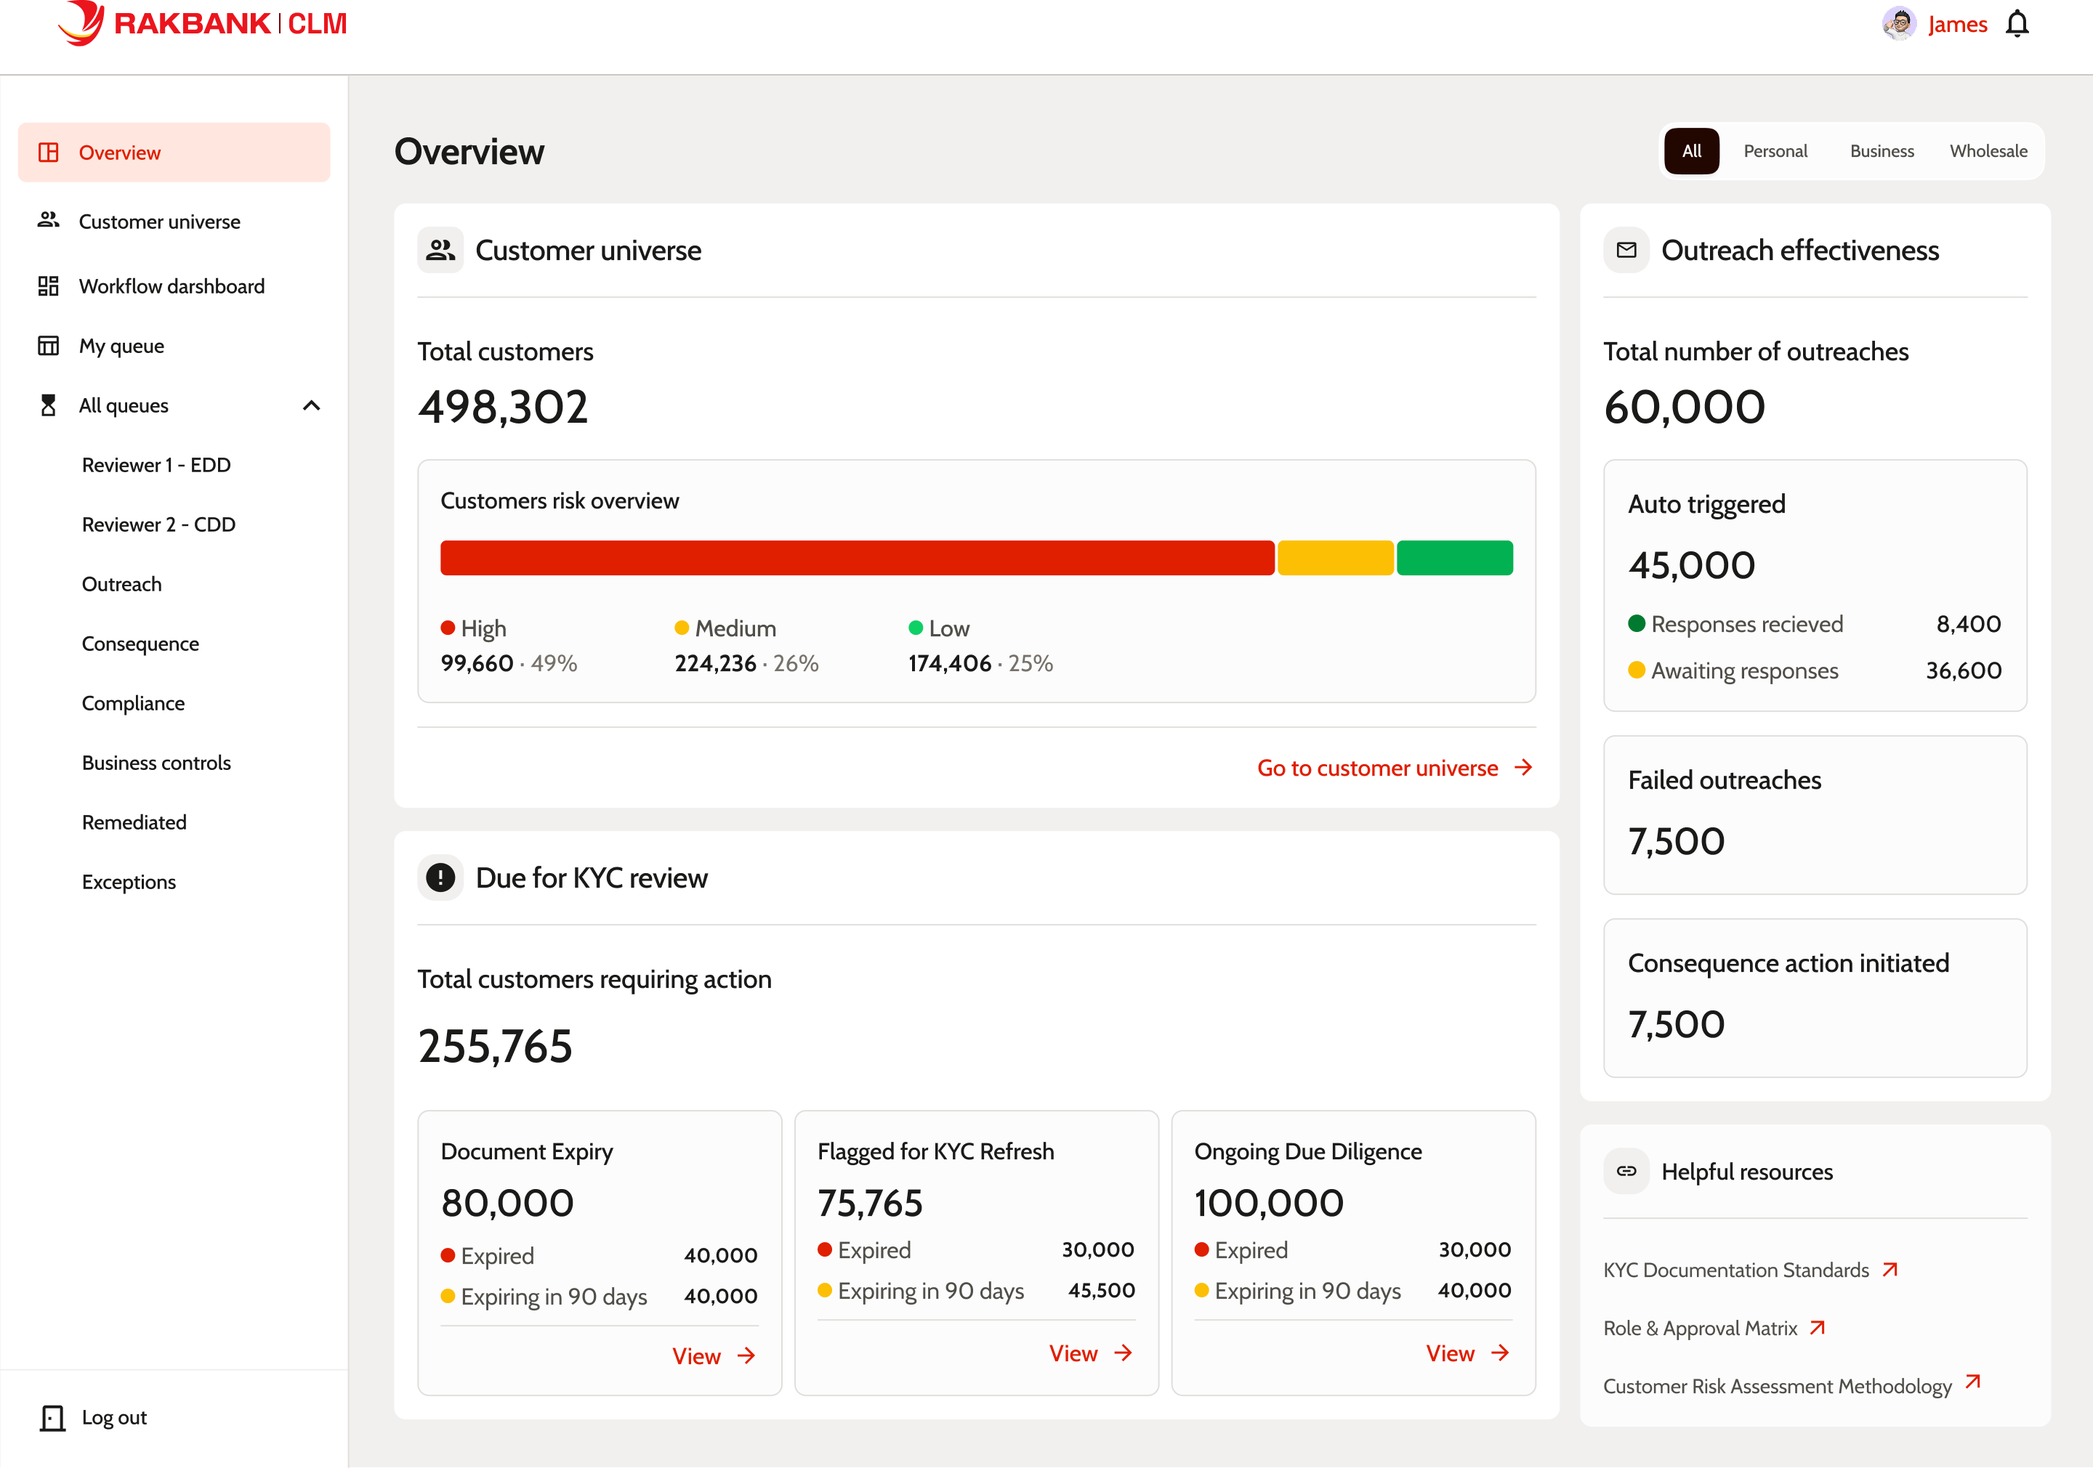
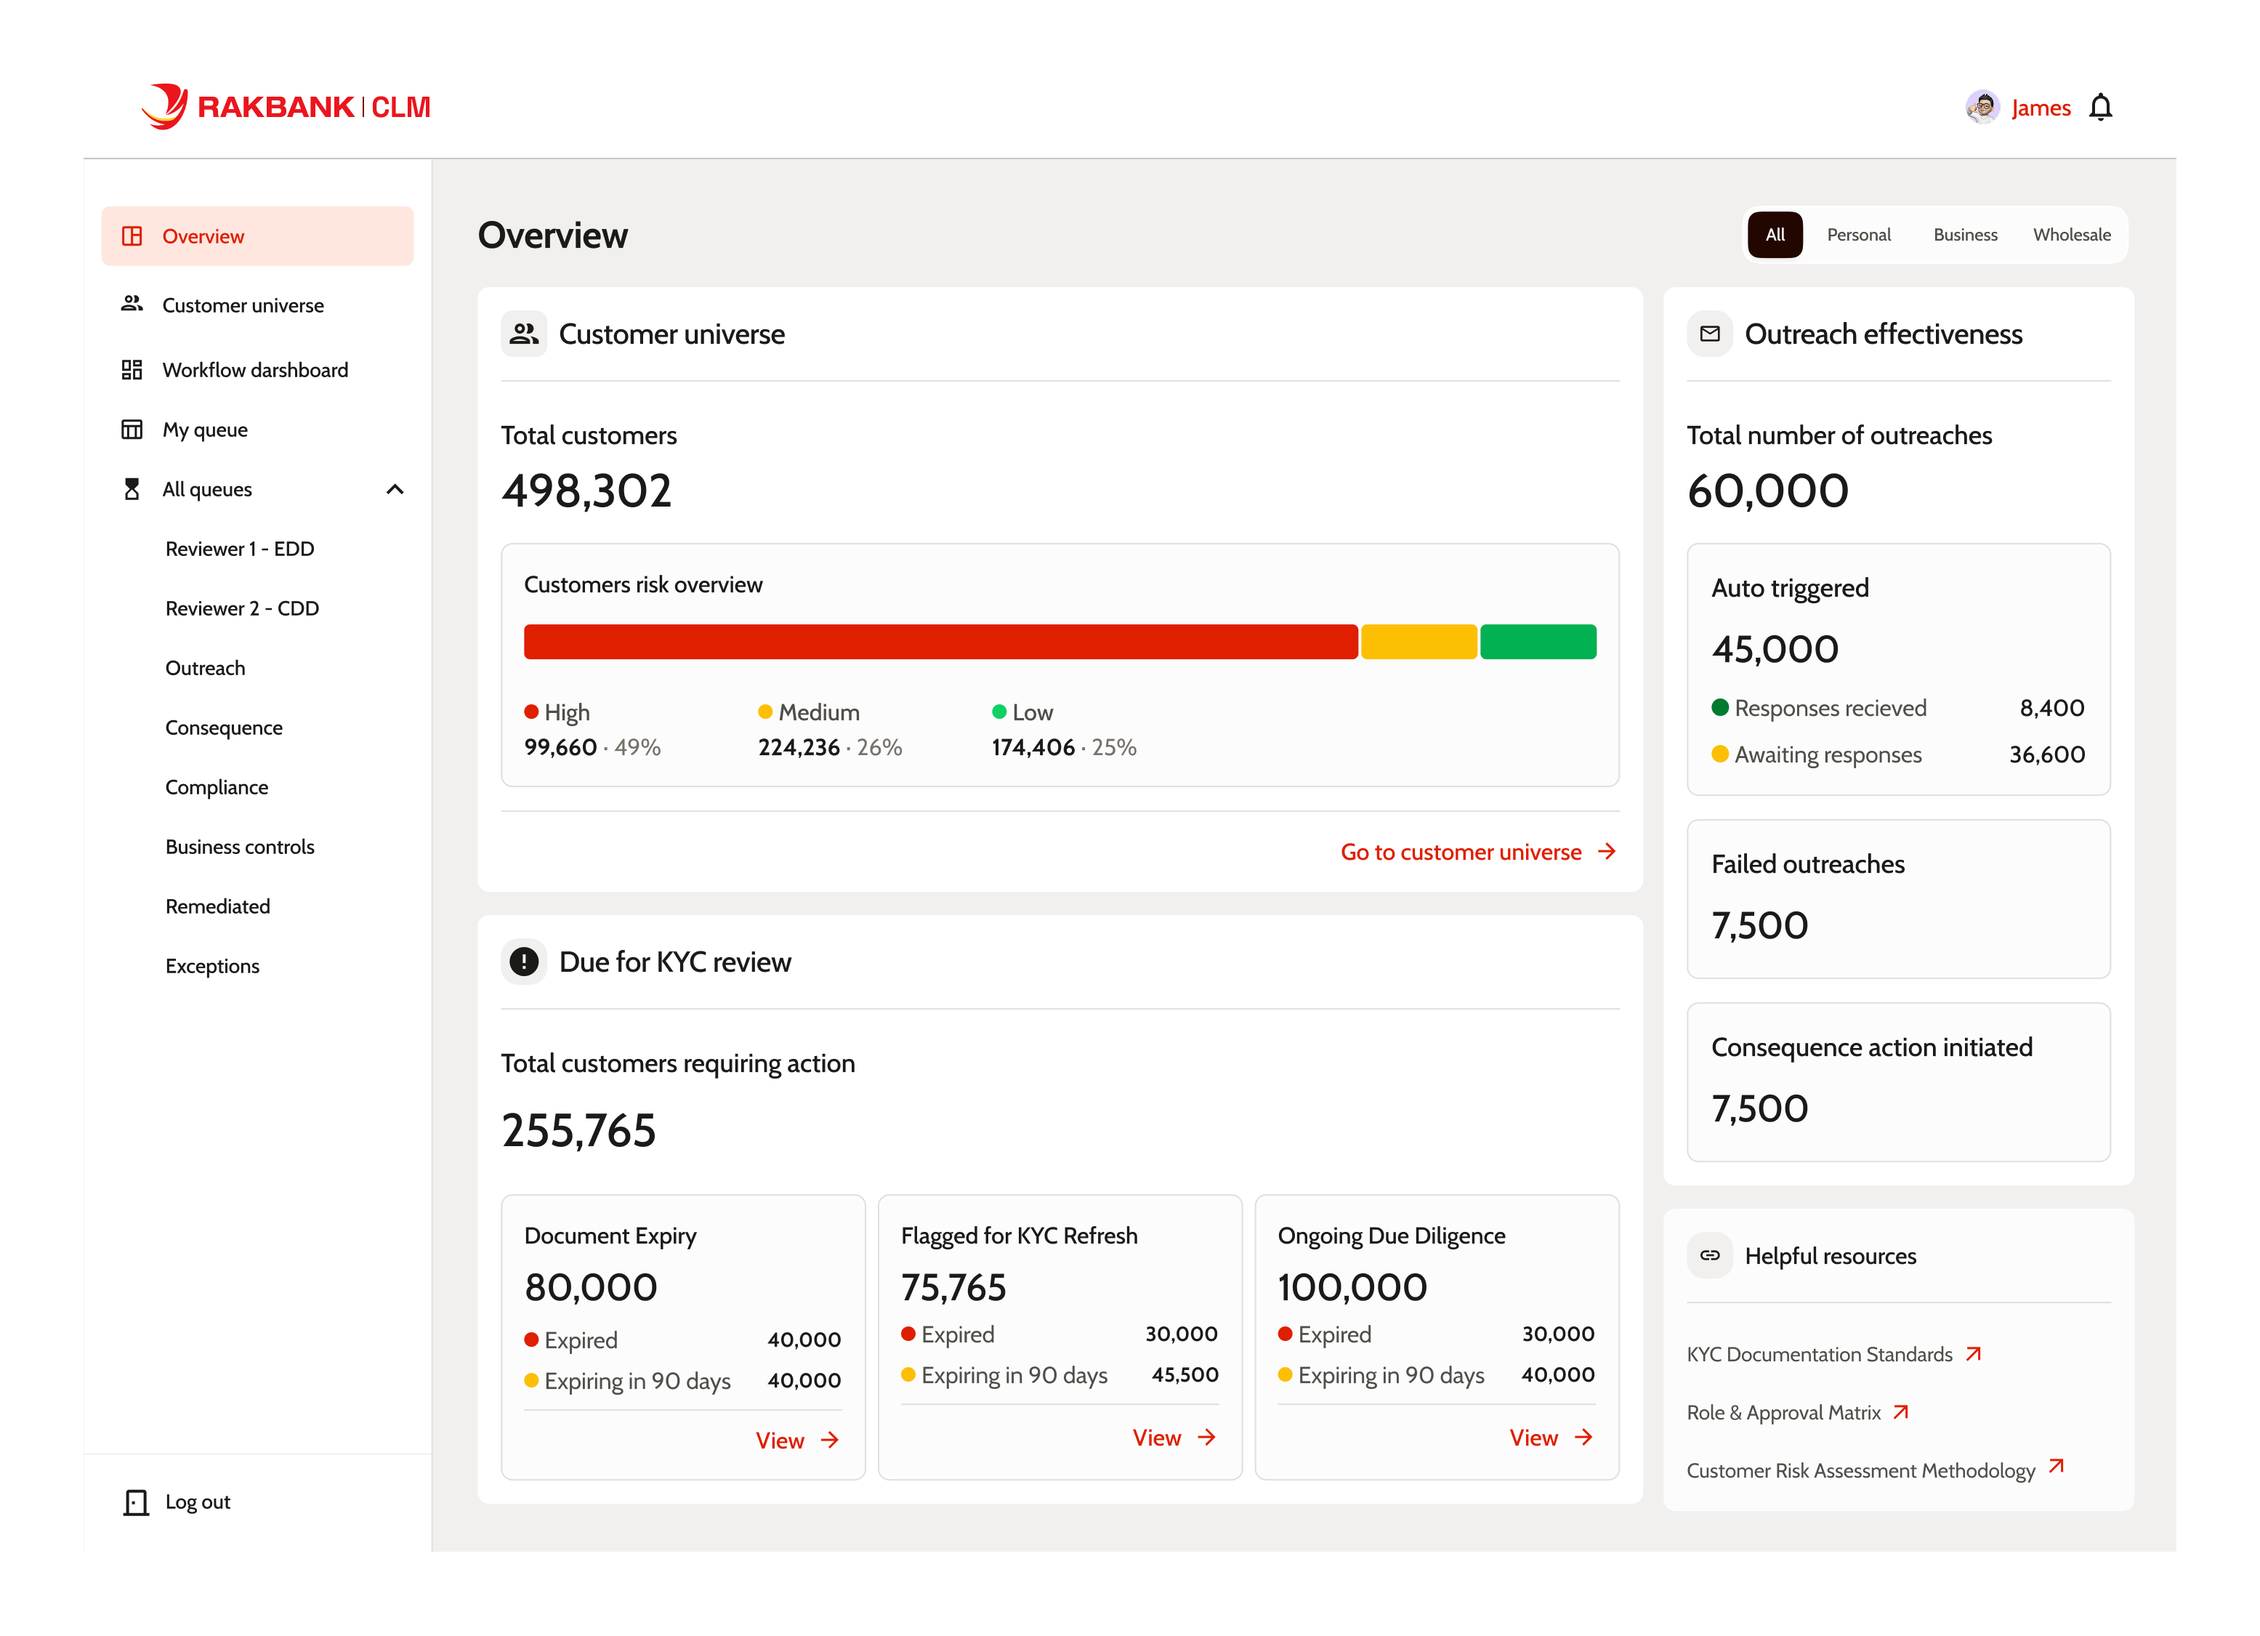
Fix cropped screenshot headers — add internal white margin
The UI screenshots were trimmed flush to content, so headers sat against
the tile edge and read as cropped (and clipped by the rounded corners).
Added a ~4% white border inside clm-dashboard, clm-customer-universe and
Case Details so the content breathes within the tile. Added ?v=2
cache-busting to these images so the update shows immediately.

https://claude.ai/code/session_01Xn4Yo2Nv56MW4czW6HxPsv

diff --git a/case-rakbank-ru.html b/case-rakbank-ru.html
@@ -56,7 +56,7 @@
         <!-- ── Hero screenshot ── -->
         <div class="n-card n-rise" data-reveal>
           <div class="n-img-block n-up">
-            <img src="assets/clm-dashboard.png" alt="Дашборд CLM — обзор соответствия" />
+            <img src="assets/clm-dashboard.png?v=2" alt="Дашборд CLM — обзор соответствия" />
           </div>
         </div>
 
@@ -176,7 +176,7 @@
             <li class="n-up">Ролевые представления дашборда для аналитиков, офицеров и операционных менеджеров</li>
           </ul>
           <div class="n-img-block n-up">
-            <img src="assets/Case Details - PBG.png" alt="Детали дела — панель проверки соответствия" />
+            <img src="assets/Case Details - PBG.png?v=2" alt="Детали дела — панель проверки соответствия" />
           </div>
         </div>
 
@@ -185,7 +185,7 @@
           <h3 class="n-row-h n-up">Вселенная клиентов</h3>
           <p class="n-up">Единое представление с поиском по каждому клиенту банка. Аналитики фильтруют по сегменту, профилю риска, статусу KYC и датам проверок — заменяя фрагментированный поиск, который раньше был разбросан по отдельным системам.</p>
           <div class="n-img-block n-up">
-            <img src="assets/clm-customer-universe.png" alt="Вселенная клиентов — единая таблица клиентов" />
+            <img src="assets/clm-customer-universe.png?v=2" alt="Вселенная клиентов — единая таблица клиентов" />
           </div>
         </div>
 

diff --git a/case-rakbank.html b/case-rakbank.html
@@ -56,7 +56,7 @@
         <!-- ── Hero screenshot ── -->
         <div class="n-card n-rise" data-reveal>
           <div class="n-img-block n-up">
-            <img src="assets/clm-dashboard.png" alt="CLM Dashboard — compliance overview" />
+            <img src="assets/clm-dashboard.png?v=2" alt="CLM Dashboard — compliance overview" />
           </div>
         </div>
 
@@ -176,7 +176,7 @@
             <li class="n-up">Role-based dashboard views for analysts, officers, and operations managers</li>
           </ul>
           <div class="n-img-block n-up">
-            <img src="assets/Case Details - PBG.png" alt="Case details — compliance review panel" />
+            <img src="assets/Case Details - PBG.png?v=2" alt="Case details — compliance review panel" />
           </div>
         </div>
 
@@ -185,7 +185,7 @@
           <h3 class="n-row-h n-up">Customer Universe</h3>
           <p class="n-up">A single, searchable view of every customer at the bank. Analysts filter by segment, risk profile, KYC status, and review dates — replacing the fragmented search that used to be spread across separate systems.</p>
           <div class="n-img-block n-up">
-            <img src="assets/clm-customer-universe.png" alt="Customer Universe — unified customer table" />
+            <img src="assets/clm-customer-universe.png?v=2" alt="Customer Universe — unified customer table" />
           </div>
         </div>
 

diff --git a/index-ru.html b/index-ru.html
@@ -69,7 +69,7 @@
                 </svg>
                 <span>NDA</span>
               </span>
-              <img src="assets/clm-dashboard.png" alt="" class="project-card-art project-card-art--screenshot" />
+              <img src="assets/clm-dashboard.png?v=2" alt="" class="project-card-art project-card-art--screenshot" />
             </div>
             <h3 class="project-card-title">Платформа CLM · 2024</h3>
             <p class="project-card-outcome">Объединил 3 системы в одну; сократил время проверки ~60%</p>

diff --git a/index.html b/index.html
@@ -69,7 +69,7 @@
                 </svg>
                 <span>NDA</span>
               </span>
-              <img src="assets/clm-dashboard.png" alt="" class="project-card-art project-card-art--screenshot" />
+              <img src="assets/clm-dashboard.png?v=2" alt="" class="project-card-art project-card-art--screenshot" />
             </div>
             <h3 class="project-card-title">CLM Platform · 2024</h3>
             <p class="project-card-outcome">Consolidated 3 systems into 1; cut review time ~60%</p>
